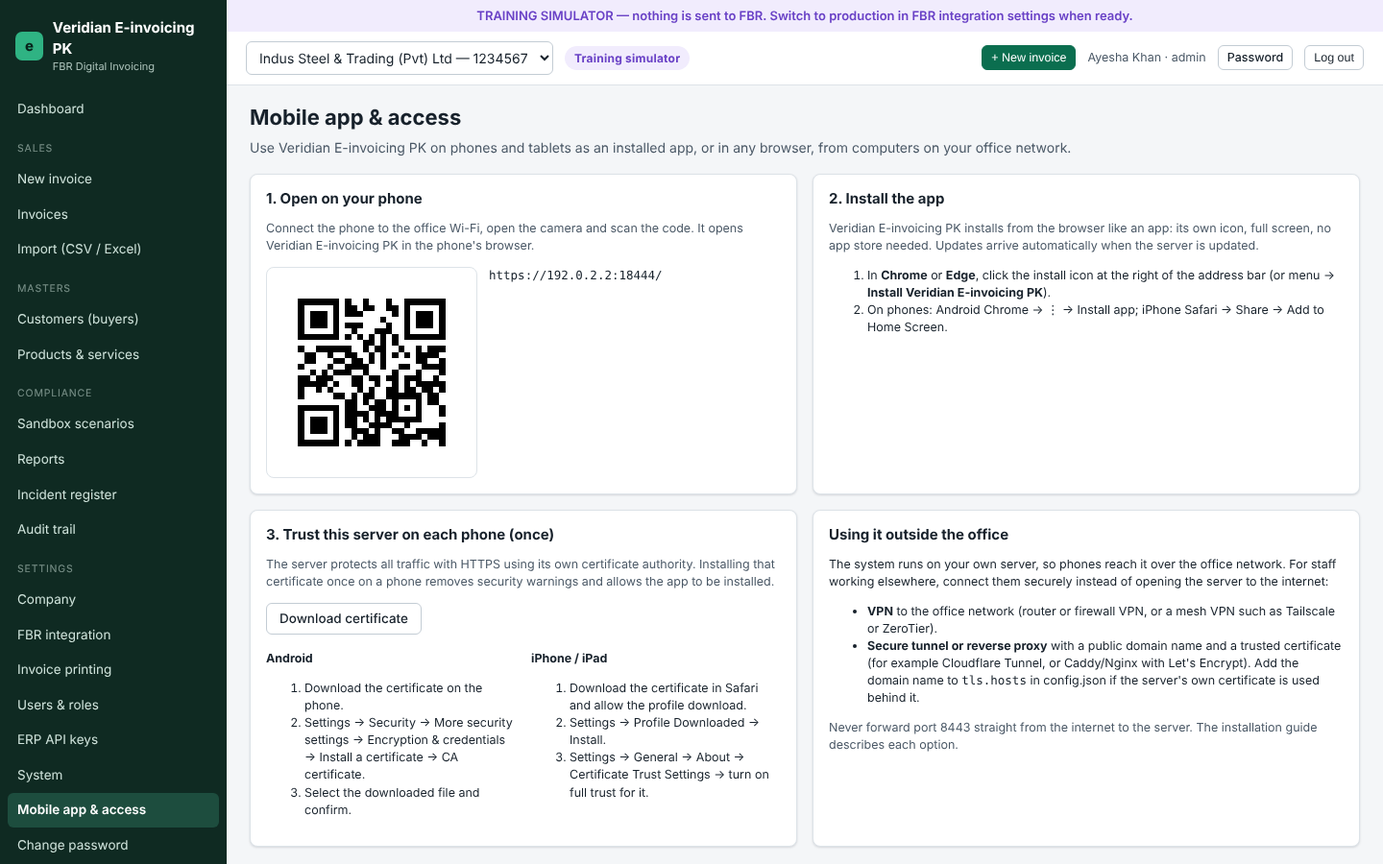
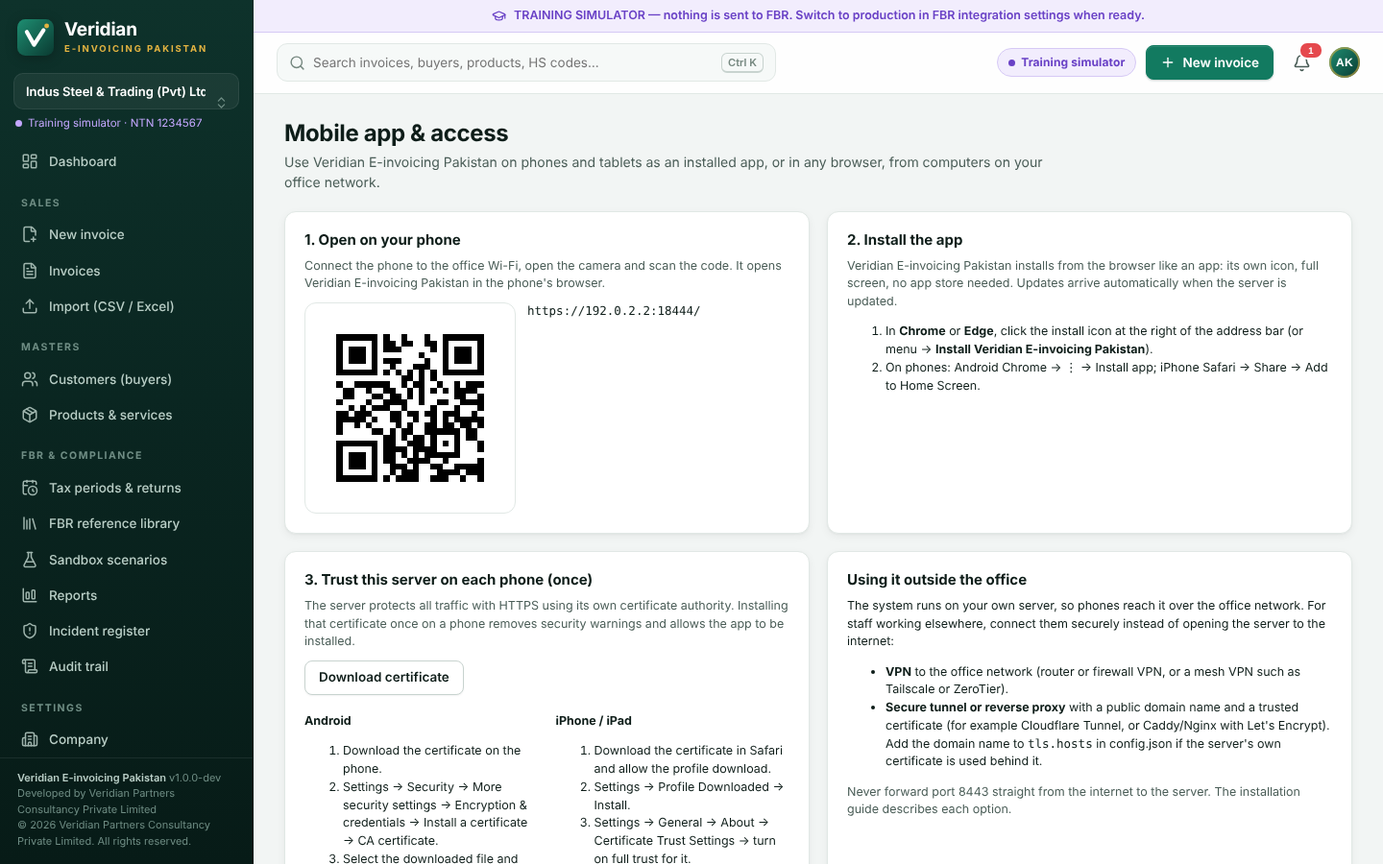
Documentation and screenshots for the redesign and FBR data features
- README: new screenshots, FBR reference data, compliance assistant,
  e-mail alerts and mobile additions
- User manual: screen layout, notifications, search, buyer checks,
  duplicating and sharing invoices, tax periods and returns, FBR
  reference library, e-mail notifications
- FBR compliance guide: matrix rows 31-35 (return calendar, reference
  data, alerts, extraTax left empty, plain-text payloads)
- Architecture: mail package, service files, web app structure,
  migration 0003, tests
- 22 screenshots of the new design (desktop, dark mode and phone)

Claude-Session: https://claude.ai/code/session_01SW1mxwDAaUfkUDhwg8oahm

diff --git a/docs/ARCHITECTURE.md b/docs/ARCHITECTURE.md
@@ -11,7 +11,8 @@
  │  internal/httpapi  REST API, sessions+CSRF, API keys,      │
  │                    roles, SPA (internal/webui, embedded)   │
  │  internal/service  invoices, submit state machine, worker, │
- │                    scenarios, import/export, auth, refdata │
+ │                    scenarios, import/export, auth, refdata,│
+ │                    alerts, e-mail, return calendar         │
  │  internal/tax      exact-decimal tax engine                │
  │  internal/validate pre-submission rules + FBR error codes  │
  │  internal/printing A4 / 80 mm invoices, QR v2 (1 inch)     │
@@ -21,13 +22,15 @@
  │  internal/security bcrypt, AES-GCM vault, hash chain       │
  │  internal/fbr      DI API v1.12 client + reference APIs    │
  │  internal/fbrmock  built-in FBR simulator (training/tests) │
- └───────────────┬──────────────────────────────────────────┘
-                 │ HTTPS, Bearer token, static whitelisted IP
-                 ▼
+ │  internal/mail     SMTP client for e-mail alerts           │
+ └───────────────┬───────────────────────────┬──────────────┘
+                 │ HTTPS, Bearer token,      │ SMTP (optional)
+                 │ static whitelisted IP     ▼
+                 ▼                       company mail server
         https://gw.fbr.gov.pk  (FBR Digital Invoicing / PRAL)
 ```
 
-Everything runs in one process with no external services. The database is a single SQLite file using the pure-Go `modernc.org/sqlite` driver; no cgo is needed, so cross-compiling for Windows is trivial.
+Everything runs in one process with no external services other than FBR (and, if e-mail alerts are switched on, the company's own mail server). The database is a single SQLite file using the pure-Go `modernc.org/sqlite` driver; no cgo is needed, so cross-compiling for Windows is trivial.
 
 ## 2. Packages
 
@@ -36,18 +39,34 @@ Everything runs in one process with no external services. The database is a sing
 | `cmd/einvoice` | CLI: `serve`, `service`, `mock-fbr`, `backup`, `reset-password`, `version` |
 | `cmd/licensegen` | Vendor tool: `keygen`, `issue`, `verify` |
 | `internal/app` | Startup: config, logging, DB, vault, licence, service; HTTP(S) server and worker; self-signed TLS |
-| `internal/config` | `config.json` defaults and loading; data directory selection |
+| `internal/brand` | Product, vendor and support names used everywhere (one place to change them) |
+| `internal/config` | `config.json` defaults and loading; data directory selection (keeps the data folder of installations made before the rename) |
 | `internal/domain` | FBR vocabulary: environments, document types, statuses, 27 sale types, 28 sandbox scenarios, provinces, UoMs |
 | `internal/tax` | Rate parsing (`18%`, `Exempt`, `Rs.200`, mixed), line computation, totals, amount in words |
 | `internal/validate` | Payload validation mirroring FBR's rules; catalogue of FBR error codes with fixes |
 | `internal/fbr` | Payload JSON model, HTTP client with failure classification and call logging, reference APIs |
 | `internal/fbrmock` | Simulator implementing FBR's endpoints, validations and fault injection |
-| `internal/store` | Typed data access for all tables, reports, audit log |
-| `internal/service` | Business logic and background worker |
+| `internal/store` | Typed data access for all tables, reports, audit log; dashboard and search queries (`insights.go`) |
+| `internal/service` | Business logic and background worker; see below |
+| `internal/mail` | Minimal SMTP client: implicit TLS (465), STARTTLS (587) or plain relay (25); AUTH PLAIN/LOGIN; multipart text + HTML |
 | `internal/httpapi` | REST routes, authentication, authorisation, error mapping, security headers |
 | `internal/printing` | HTML templates, QR generation |
 | `internal/winsvc` | Windows service integration |
 | `web/` | React + TypeScript + Vite source; built into `internal/webui/dist` and embedded with `go:embed` |
+
+Main files of `internal/service`:
+
+| File | Responsibility |
+|---|---|
+| `invoices.go`, `submit.go` | Invoice editing, payload building (plain-text cleaning of names and descriptions), submission state machine, reconciliation, duplicating |
+| `worker.go`, `integrity.go`, `health.go` | Queue, outage and Rule 150R incidents, unexpected-stop detection, integrity checks, backups |
+| `refdata.go` | Sync and live look-ups of FBR's reference APIs (provinces, document and transaction types, UoM, HS codes, SRO item codes, SaleTypeToRate, SroSchedule, SROItem, HS_UOM, ATL status, registration type) |
+| `compliance.go` | Sales tax return calendar (payment and filing days per company), period-close review |
+| `alerts.go` | Alerts shown under the bell and e-mailed: connection, token, unreported / rejected / unreconciled invoices, drafts, incidents, deadlines, stale reference data, sandbox progress, backups, licence |
+| `notify.go` | E-mail settings (password encrypted with the vault), immediate alerts and the daily summary |
+| `scenarios.go`, `importer.go`, `masters.go`, `auth.go` | Sandbox scenarios, Excel/CSV import and export, companies/customers/products, users and API keys |
+
+The web app (`web/src`) has a sidebar layout for desktops and a bottom tab bar for phones (`App.tsx`), a header with global search, notifications and account menu (`components/Header.tsx`), light/dark themes (`theme.ts`) and hand-made SVG charts with table views (`components/Charts.tsx`). Pages are in `web/src/pages`; `ReferenceLibrary.tsx` and `Compliance.tsx` present FBR's reference data and the return calendar.
 
 ## 3. Invoice lifecycle
 
@@ -92,12 +111,13 @@ Invoices left in SUBMITTING are released by `RecoverStuckSubmissions`: never sen
 - re-submits due QUEUED invoices, and the whole queue at once when posting to FBR works again; a connection test after an outage probes with one queued invoice. Invoices refused before reaching FBR (e.g. token removed) are deferred for 15 minutes so they cannot block the queue;
 - opens and closes Rule 150R incidents for production only: FBR unreachable (3+ failed calls over 10+ minutes), auth failures, unexpected stops (heartbeat without an orderly-shutdown marker, `internal/service/integrity.go`) and tampering;
 - runs a daily integrity check of the audit chain and every accepted invoice's seal and chain link;
+- checks alerts every 5 minutes and sends e-mails if they are switched on (in its own goroutine, so a slow mail server never delays the queue);
 - purges expired sessions;
 - writes the daily backup.
 
 ## 4. Data model
 
-The schema is in `internal/db/migrations/` (`0001_init.sql`; `0002_offline_since.sql` adds the offline marker). Migrations are applied in order at startup, each once.
+The schema is in `internal/db/migrations/` (`0001_init.sql`; `0002_offline_since.sql` adds the offline marker; `0003_return_days.sql` adds each company's return payment and filing days). Migrations are applied in order at startup, each once.
 
 **Tables**
 
@@ -127,6 +147,7 @@ The schema is in `internal/db/migrations/` (`0001_init.sql`; `0002_offline_since
 | API keys | `eik_` prefix; only a SHA-256 hash stored; scoped to one company; limited permissions |
 | Authorisation | Role → permission map (`internal/httpapi/perms.go`); every company-scoped route checks the user's company access; users limited to some companies see only those companies' audit entries. The FBR environment of an invoice always follows the company setting, so only users allowed to change company settings can move a company to production. |
 | FBR tokens | AES-256-GCM with `master.key` (generated on first start); never returned by the API; never written to logs or the FBR call log |
+| E-mail | SMTP password encrypted like the FBR tokens and never returned by the API; certificates verified; a password is never sent over an unencrypted connection to another computer |
 | Web | Strict security headers and Content Security Policy (`script-src 'self'`); print and letter pages allow only a per-request nonce'd script. Uploaded images are restricted to image types, max 2 MB; SVGs with scripts, event handlers or embedded content are rejected, and images are served with a sandboxing CSP. Import uploads are capped at 20 MB with bounded XLSX decompression; QR PNG size is capped. |
 | Transport | HTTPS by default (self-signed or own certificate) |
 | Licence | Ed25519 signature verified offline against the embedded public key |
@@ -142,13 +163,20 @@ The schema is in `internal/db/migrations/` (`0001_init.sql`; `0002_offline_since
 | Test file | Covers |
 |---|---|
 | `internal/tax/tax_test.go` | Rates, further tax, Third Schedule, reduced rate, withholding, rounding, totals, amount in words, scenario arithmetic |
-| `internal/validate/validate_test.go` | Header and line validation, NTN/CNIC normalisation, debit notes, dates, error catalogue |
+| `internal/validate/validate_test.go` | Header and line validation, NTN/CNIC normalisation, debit notes, dates, repeated lines, error catalogue |
 | `internal/fbr/client_test.go` | Success, rejection, auth, scenarioId stripping, failure classification (timeout/drop/refused/503), reference APIs, JSON format |
 | `internal/db/db_test.go` | Migrations and immutability triggers |
 | `internal/service/service_test.go` | Full lifecycle, validation blocking, sandbox scenarios, reconciliation, outage queue and worker, rejection then fix, production token rule, idempotency, fiscal year |
+| `internal/service/compliance_test.go` | Return due dates and calendar, period review, duplicating invoices, plain-text payloads |
+| `internal/service/notify_test.go` | E-mail settings, immediate alerts (once a day per alert), daily summary, password encryption |
+| `internal/service/integrity_test.go`, `health_test.go` | Tampering detection, unexpected stops, outage incidents |
+| `internal/mail/mail_test.go` | Sending through a test SMTP server, STARTTLS required, no password over plain connections, address validation |
 | `internal/license/license_test.go` | Licence states and limits; developer build |
 | `internal/printing/*_test.go` | QR version 2 / 25 modules; A4 and thermal rendering; copies; watermarks |
 | `internal/httpapi/routes_test.go` | Route registration |
+| `internal/httpapi/security_test.go` | Audit trail scoped to the user's companies, invoice environment not overridable, login failures indistinguishable, password change signs out other sessions, print-page CSP, QR and upload size limits |
+| `internal/httpapi/insights_test.go` | Dashboard, search, alerts and compliance endpoints |
+| `internal/config/config_test.go`, `internal/app/tls_test.go` | Data folder selection (including installations made before the rename), certificates |
 
 Run all with `make test` (or `GOTOOLCHAIN=local go test ./...`).
 

diff --git a/docs/USER-MANUAL.md b/docs/USER-MANUAL.md
@@ -33,6 +33,8 @@ Open the address given by your administrator, e.g. `https://server:8443/`, and s
   - *FBR sandbox:* test submissions for certification.
   - Invoices from either are watermarked and are not valid tax invoices.
 
+![Search](images/search.png)
+
 ### Notifications (the bell)
 
 The red number counts what needs action now; a blue dot means there is only information. Notifications are worked out from the current state, so each disappears by itself once its cause is dealt with. Click one to go to the page where you can fix it:
@@ -48,6 +50,10 @@ The red number counts what needs action now; a blue dot means there is only info
 | Pay sales tax / file the return in *n* days | Review the period on **Tax periods & returns**. |
 | FBR reference data not downloaded / out of date | Download it under **FBR reference library → Data sync**. |
 | Token or licence expiring, no recent backup | Renew, or check the backups (administrators). |
+
+![Notifications](images/notifications.png)
+
+The same items can be **e-mailed** to the people responsible, so problems are seen even when nobody has the system open — see *E-mail notifications* in section 16.
 
 ### Dashboard
 
@@ -102,11 +108,11 @@ Sales figures by month, buyer and HS code are shown to roles that can see report
 ![Invoice editor](images/invoice-editor.png)
 
 1. **Document:** type (*Sale Invoice* or *Debit Note*) and invoice date (today; report at the time of supply). Optionally add your reference, such as an order or ERP number; it prevents duplicates.
-2. **Buyer:** search the customer master, or type the buyer's details for a one-off sale (e.g. *Walk-in customer*, Unregistered).
-3. **Lines:** type to search products, or enter a description, then set HS code, UoM, quantity, price, sale type and rate. Click **▸ SRO, retail price, further/extra tax, discount…** for the extra fields.
+2. **Buyer:** search the customer master, or type the buyer's details for a one-off sale (e.g. *Walk-in customer*, Unregistered). **Check with FBR** next to the NTN/CNIC asks FBR's Active Taxpayer List and registration type and sets *Registered* or *Unregistered* for you; a buyer picked from the master shows the status on file.
+3. **Lines:** type to search products, or enter a description, then set HS code, UoM, quantity, price, sale type and rate. If FBR prescribes a different unit for the HS code, the unit is flagged with **Use** to apply FBR's unit. Click **▸ SRO, retail price, further/extra tax, discount…** for the extra fields, including **Pick SRO / schedule from FBR** and **Pick serial no. from FBR**.
 4. Taxes and totals are **calculated live** as you type:
    - value excluding tax, sales tax, further tax, extra tax, FED, withholding, total and amount payable;
-   - warnings appear under the line.
+   - warnings appear under the line; FBR's checks are listed at the top once you start entering the invoice. Put each product on one line: FBR may treat the same product on two lines as a duplicate, and the system warns about it.
 5. Click **Save & submit to FBR**. **Save draft** keeps it unreported.
 
 After submission:
@@ -198,6 +204,10 @@ Never re-enter the sale as a new invoice; it could be reported twice.
 
 For repeat sales, open an earlier sale invoice and click **Duplicate**. A new draft dated today is created with the same buyer and lines (taxes are recalculated); check it and submit it.
 
+### Sharing an invoice
+
+On an accepted invoice, **Share** opens the phone's share sheet (WhatsApp, e-mail and so on) with the invoice number, date, buyer, amounts and the **FBR invoice number**. On a computer the same details are copied, ready to paste. The printed or PDF copy (**Print A4**, then *Save as PDF*) remains the tax invoice.
+
 ## 10. Importing invoices (CSV / Excel)
 
 **Import (CSV / Excel)**
@@ -250,6 +260,8 @@ Choose the period and environment, then **Download CSV** or **Download Excel**.
 | Buyer check (ATL) | Check an NTN or CNIC against FBR's Active Taxpayer List and registration type, with what it means for the invoice (registered or unregistered buyer, further tax). |
 | Tax calculator | Work out sales tax, further tax, extra tax, FED, withholding and the invoice total for a sale, using the same engine as invoices. |
 | Data sync | See what is stored on the server and **Download from FBR now** (company settings permission). Refresh after FBR announces new sale types, rates or SROs. |
+
+![Tax calculator](images/library-calculator.png)
 
 The invoice editor uses the same data: it shows FBR's unit for the HS code you enter (with **Use** to apply it), offers **Pick SRO / schedule from FBR** and **Pick serial no. from FBR** in the line details, and has **Check with FBR** next to the buyer's NTN/CNIC.
 
@@ -305,8 +317,23 @@ On a phone, the bar at the bottom of the screen opens **Home**, **Invoices**, a 
 | Invoice printing | Default format, amount-in-words style, columns, copies, terms, footer, company logo |
 | Users & roles | Create users, assign roles and companies, reset passwords, deactivate leavers |
 | ERP API keys | Keys for ERP/POS integration ([ERP-INTEGRATION-API.md](ERP-INTEGRATION-API.md)) |
-| System | Licence status and installation, backups (create/download), FBR Digital Invoicing logo, server information |
+| System & licence | Licence status and installation, backups (create/download), FBR Digital Invoicing logo, server information, **e-mail notifications** |
 | Help & error codes | FBR error codes with fixes, compliance rules, sale types and rates |
+
+### E-mail notifications
+
+![E-mail notifications](images/email-notifications.png)
+
+**Settings → System & licence → E-mail notifications** (administrators). The e-mails go through your own mail server; nothing passes through Veridian.
+
+1. Click **Microsoft 365 / Outlook** or **Gmail / Google Workspace** to fill in the server, port and security, or enter your mail server's details.
+2. Enter the user name (usually the full e-mail address) and password. Microsoft 365 and Gmail may require an *app password* when two-step sign-in is on. The password is stored encrypted.
+3. Enter the sender, and the recipients separated by commas.
+4. Choose whether problems are e-mailed as soon as they are found (checked every 5 minutes), and whether to receive a **daily summary** at a chosen hour (yesterday's and this month's invoices and tax, the return due dates and open items).
+5. Optionally enter the address of the system (for example `https://192.168.1.10:8443`) so that the e-mails link to it.
+6. Tick **Send e-mails** and click **Save & send test e-mail**. The result of the last e-mail is shown below the form.
+
+Each problem is e-mailed at most once a day while it lasts, and again if it recurs after being fixed. Companies working in the training simulator do not raise e-mails about invoices. The server must be able to reach the mail server (usually TCP port 587 or 465).
 
 ---
 

diff --git a/README.md b/README.md
@@ -7,9 +7,10 @@
 The software:
 
 - prepares sales tax invoices with Pakistan's sales-tax rules;
-- validates them against FBR's rules;
+- validates them against FBR's rules and FBR's own reference data (HS codes, sale types, rates, SROs, units, buyer ATL status);
 - reports them to FBR's Digital Invoicing System in real time (DI API v1.12, through PRAL);
-- prints compliant invoices with the FBR invoice number, QR code and FBR DI logo.
+- prints compliant invoices with the FBR invoice number, QR code and FBR DI logo;
+- keeps the business on top of compliance: notifications and e-mail alerts, the 24-hour upload rule, incidents, and the monthly sales tax return calendar with a period-close checklist.
 
 It is a single program with a built-in web interface. It is installed on the client's own server or PC. Staff use it from any browser on the office network, or as an installed app on Android and iPhone.
 
@@ -17,15 +18,21 @@ It is a single program with a built-in web interface. It is installed on the cli
 
 ## Screenshots
 
-| Dashboard | Invoice entry with live tax calculation |
+| Dashboard | Sign-in |
 |---|---|
-| ![Dashboard](docs/images/dashboard.png) | ![Invoice editor](docs/images/invoice-editor.png) |
-| **Accepted invoice with FBR number and QR code** | **Printed A4 tax invoice** |
-| ![Invoice view](docs/images/invoice-view.png) | ![Printed invoice](docs/images/print-a4.png) |
+| ![Dashboard](docs/images/dashboard.png) | ![Sign-in](docs/images/login.png) |
+| **Invoice entry with live tax calculation** | **Accepted invoice with FBR number and QR code** |
+| ![Invoice editor](docs/images/invoice-editor.png) | ![Invoice view](docs/images/invoice-view.png) |
+| **FBR reference library: sale types → rates → SROs** | **Buyer check against FBR's Active Taxpayer List** |
+| ![Reference library](docs/images/library-rates.png) | ![Buyer check](docs/images/library-buyer.png) |
+| **Tax periods & returns (Annexure-C, due dates, checklist)** | **Notifications** |
+| ![Tax periods and returns](docs/images/compliance.png) | ![Notifications](docs/images/notifications.png) |
+| **Printed A4 tax invoice** | **Dark theme** |
+| ![Printed invoice](docs/images/print-a4.png) | ![Dark theme](docs/images/dashboard-dark.png) |
 | **Sandbox scenarios (FBR certification)** | **Reports (Annexure-C reconciliation)** |
 | ![Scenarios](docs/images/scenarios.png) | ![Reports](docs/images/reports.png) |
-| **Mobile app & access (QR code, install, certificate)** | **On a phone: dashboard, menu and accepted invoice** |
-| ![Mobile app & access](docs/images/mobile-access.png) | <img src="docs/images/phone-dashboard.png" alt="Phone dashboard" width="31%"> <img src="docs/images/phone-menu.png" alt="Phone menu" width="31%"> <img src="docs/images/phone-invoice.png" alt="Phone invoice" width="31%"> |
+| **Mobile app & access (QR code, install, certificate)** | **On a phone: dashboard, menu, invoice and FBR data** |
+| ![Mobile app & access](docs/images/mobile-access.png) | <img src="docs/images/phone-dashboard.png" alt="Phone dashboard" width="23%"> <img src="docs/images/phone-menu.png" alt="Phone menu" width="23%"> <img src="docs/images/phone-invoice.png" alt="Phone invoice" width="23%"> <img src="docs/images/phone-library.png" alt="Phone FBR data" width="23%"> |
 
 ## Features
 
@@ -60,11 +67,23 @@ It is a single program with a built-in web interface. It is installed on the cli
 - Rule 150R incident register. FBR outages, token failures, crashes or power failures and tampering are detected automatically, and the letter to the Commissioner is generated for you.
 - Hash-chained audit trail and tamper-evident invoice seals, checked automatically every day.
 
+**FBR reference data built in**
+
+- FBR reference library: HS codes with the unit FBR prescribes (HS_UOM); sale types → rates (SaleTypeToRate) → SROs/schedules → serial numbers; units; provinces, document and transaction types — downloaded with the company's token and refreshed on demand.
+- Buyer checks against FBR's Active Taxpayer List and registration type, one at a time or for the whole customer list, with buyers whose master record differs from FBR flagged.
+- The invoice editor uses the same data: FBR's unit for the HS code, SRO pickers and an inline buyer check.
+- Sales tax calculator using the invoice engine.
+
 **Masters and data**
 
-- Customers with FBR Active Taxpayer List checks.
-- Products with HS code, UoM, sale type, rate and SRO lookups.
-- CSV/Excel import with preview.
+- Customers and products (HS code, UoM, sale type, rate, SRO).
+- CSV/Excel import with preview; duplicate an invoice for repeat sales.
+
+**Compliance assistant**
+
+- Tax periods & returns: payment and filing due dates with countdowns (days configurable per company), a period-close checklist (unreported, rejected, unreconciled, drafts, incidents) and supplies by sale type and rate as they feed Annexure-C.
+- Notifications (bell) and **e-mail alerts** through the client's own mail server: FBR unreachable or token rejected, invoices not reported within 24 hours, rejected invoices, unreported incidents, deadlines, licence and backups; optional daily summary.
+- Hardening learned from other DI integrations in use: blank extraTax where FBR refuses a zero, plain text in payloads, repeated-line warnings, guidance for FBR error codes.
 
 **Reports**
 
@@ -77,7 +96,8 @@ It is a single program with a built-in web interface. It is installed on the cli
 
 **Mobile and web**
 
-- Works in any browser on computers, tablets and phones, with a phone-friendly layout.
+- Veridian design for desktop, web and phone, in light or dark; global search (Ctrl K) across invoices, buyers, products and FBR HS codes.
+- Works in any browser on computers, tablets and phones; on phones a bottom tab bar with a one-tap new invoice, and **Share** for accepted invoices (WhatsApp, e-mail).
 - Installs on Android and iPhone as an app (Progressive Web App) with its own icon; no app store needed.
 - "Mobile app & access" page with QR codes to open the system on a phone, and a certificate download so phones trust the server.
 

diff --git a/docs/FBR-COMPLIANCE-GUIDE.md b/docs/FBR-COMPLIANCE-GUIDE.md
@@ -195,7 +195,12 @@ Status: **Implemented**, **Partial** (implemented with a manual step), or **Clie
 | 27 | Audit trail | Good practice | Append-only, SHA-256 hash-chained log with verification | Audit trail page; `internal/store/audit.go` | TestMigrateAndTriggers | Implemented |
 | 28 | Access control | Good practice | Roles: admin, manager, accountant, operator, auditor; sessions + CSRF; hashed API keys; lockout after failed logins | `internal/httpapi/server.go`, `perms.go`; `internal/store/users.go` | TestRoutesRegister | Implemented |
 | 29 | Protection of FBR tokens | Good practice | AES-256-GCM encryption with `master.key`; tokens never returned by the API or logged | `internal/security/security.go`; `internal/fbr/client.go` | TestProductionRequiresToken | Implemented |
-| 30 | Buyer status checks | Good practice | Active Taxpayer List and registration-type lookups | Customers → Check FBR | TestReferenceAPIs | Implemented |
+| 30 | Buyer status checks | Good practice | Active Taxpayer List and registration-type lookups, single or for all buyers; master records differing from FBR are flagged; inline check in the invoice editor | Customers → Check FBR / Check all with FBR; FBR reference library → Buyer check | TestReferenceAPIs | Implemented |
+| 31 | Monthly return: payment and filing on time; Annexure-C complete | s.26; return due dates (generally 15th / 18th of the following month — **Verify** current notifications and extensions) | Compliance calendar with per-company due days and countdowns; period-close checklist (unreported, rejected, unreconciled, drafts, incidents); supplies by sale type and rate as they feed Annexure-C | Tax periods & returns; `internal/service/compliance.go` | TestUpcomingDeadlines, TestReturnDueDateClampsToMonthEnd, TestDuplicateInvoiceAndPeriodReview | Implemented |
+| 32 | Use of FBR's reference data | DI v1.12 reference APIs | Synced lists (provinces, document and transaction types, UoM, SRO item codes, HS codes); live SaleTypeToRate, SroSchedule, SROItem and HS_UOM; reference library; FBR unit and SRO pickers in the editor | FBR reference library; `internal/service/refdata.go` | TestReferenceAPIs, TestDashboardSearchAlertsAndCompliance | Implemented |
+| 33 | Prompt action on outages, rejections and the 24-hour upload | 150R; offline upload rule (PRAL manual) | Notifications and e-mail alerts checked every 5 minutes (FBR unreachable, token rejected, invoices not reported, rejected or unreconciled invoices, unreported incidents, deadlines); optional daily summary | Bell; Settings → System & licence → E-mail notifications; `internal/service/alerts.go`, `notify.go`; `internal/mail` | TestEmailNotifications, TestNotifyPasswordIsEncrypted, TestSendPlainRelay | Implemented |
+| 34 | extraTax left empty where FBR refuses a value | DI v1.12 error 0091; reports from other integrators | Sent empty for reduced-rate, exempt, zero-rated and cotton ginner supplies | `internal/domain/domain.go`; `internal/tax/engine.go` | TestReducedRateExtraTaxEmpty, TestExtraTaxEmptyForExemptZeroRatedAndCottonGinners | Implemented |
+| 35 | Payloads FBR's parser accepts | Reports from other integrators | Plain text in names, addresses and descriptions (no control characters, double quotes or backslashes); warning when the same product is on two lines | `internal/service/invoices.go` (fbrText); `internal/validate/validate.go` | TestPayloadTextIsPlain, TestRepeatedLinesWarned | Implemented |
 
 ## 7. Gaps and client responsibilities
 
@@ -217,6 +222,7 @@ Status: **Implemented**, **Partial** (implemented with a manual step), or **Clie
 - PRAL Digital Invoicing user manual v1.6 (16 April 2026) — IRIS cancellation screens.
 - Draft SRO 288(I)/2026 — income-tax online integration (draft).
 - PRAL Digital Invoicing technical documentation v1.12 — APIs, fields, scenarios, error codes, QR specification.
+- Reports from other DI integrations in use (reviewed October 2026): FBR refusing a numeric zero extraTax for scenarios SN005–SN007, SN009 and SN028; FBR flagging repeated lines; FBR checking the invoice date against a UTC clock just after midnight (error 0043) (**Verify** with PRAL).
 - IRIS → Digital Invoicing — onboarding screens, scenario assignment, token issue.
 
 ---

diff --git a/docs/MOBILE-AND-REMOTE-ACCESS.md b/docs/MOBILE-AND-REMOTE-ACCESS.md
@@ -8,16 +8,19 @@ Veridian E-invoicing Pakistan works in any modern browser on computers, tablets 
 
 Open `https://<server-address>:8443/` in Chrome, Edge, Firefox or Safari, for example `https://192.168.1.10:8443/`. The screens adapt to the screen size:
 
-- on phones, the menu opens from the **☰** button;
+- on phones, a bar at the bottom opens **Home**, **Invoices**, a new invoice (the round **+** button), **FBR data** (reference library and buyer check) and the full **Menu**; the magnifier at the top searches invoices, buyers, products and HS codes;
 - forms show one field per row;
-- wide tables scroll sideways inside their card.
+- wide tables scroll sideways inside their card;
+- **Share** on an accepted invoice sends its details and FBR invoice number through WhatsApp, e-mail or any app on the phone;
+- light and dark themes follow the phone's setting, or choose one under your initials → *Appearance*.
 
 **Mobile app & access** in the menu shows a QR code for each of the server's network addresses. Scan it with a phone camera to open the system on that phone.
 
 <p>
-<img src="images/phone-dashboard.png" alt="Dashboard on a phone" width="240">
-<img src="images/phone-menu.png" alt="Menu on a phone" width="240">
-<img src="images/phone-invoice.png" alt="Accepted invoice with FBR number and QR code on a phone" width="240">
+<img src="images/phone-dashboard.png" alt="Dashboard on a phone" width="220">
+<img src="images/phone-menu.png" alt="Menu on a phone" width="220">
+<img src="images/phone-invoice.png" alt="Accepted invoice with FBR number and QR code on a phone" width="220">
+<img src="images/phone-library.png" alt="FBR buyer check on a phone" width="220">
 </p>
 
 ![Mobile app & access page](images/mobile-access.png)

diff --git a/docs/INSTALLATION.md b/docs/INSTALLATION.md
@@ -18,7 +18,7 @@ Users work in a web browser on any computer in the office network.
 | Operating system | Windows 10/11 or Windows Server 2016+ (x64), or Linux x86-64 with systemd | Windows Server 2019+ or Ubuntu 22.04+ |
 | CPU / RAM | 2 cores, 2 GB | 4 cores, 4 GB |
 | Disk | 2 GB free | SSD. Allow about 1 GB per 100,000 invoices, plus backups. |
-| Network | Outbound HTTPS (TCP 443) to `gw.fbr.gov.pk` | A **static public IP**, whitelisted by PRAL for production |
+| Network | Outbound HTTPS (TCP 443) to `gw.fbr.gov.pk` | A **static public IP**, whitelisted by PRAL for production. For e-mail notifications, outbound access to the mail server (usually TCP 587 or 465). |
 | Clients | Any modern browser (Chrome, Edge, Firefox) | — |
 | Printers | Any A4 printer; 80 mm thermal printer for POS receipts | — |
 
